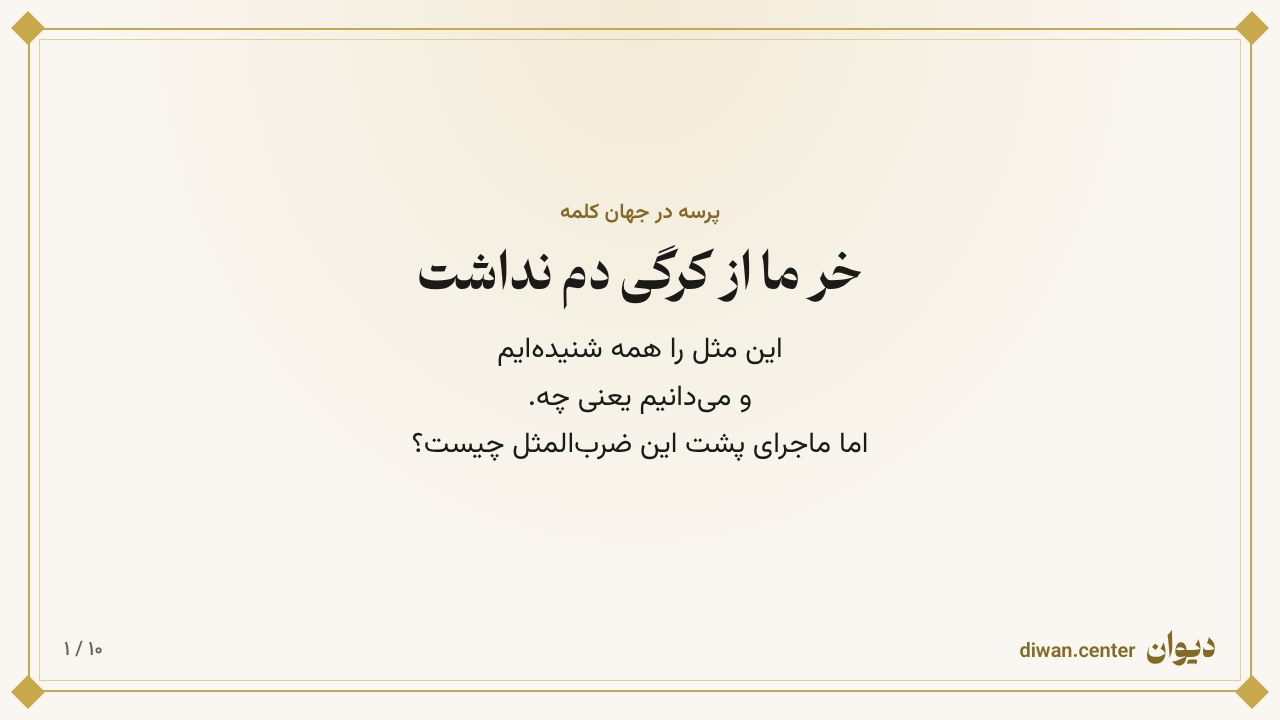
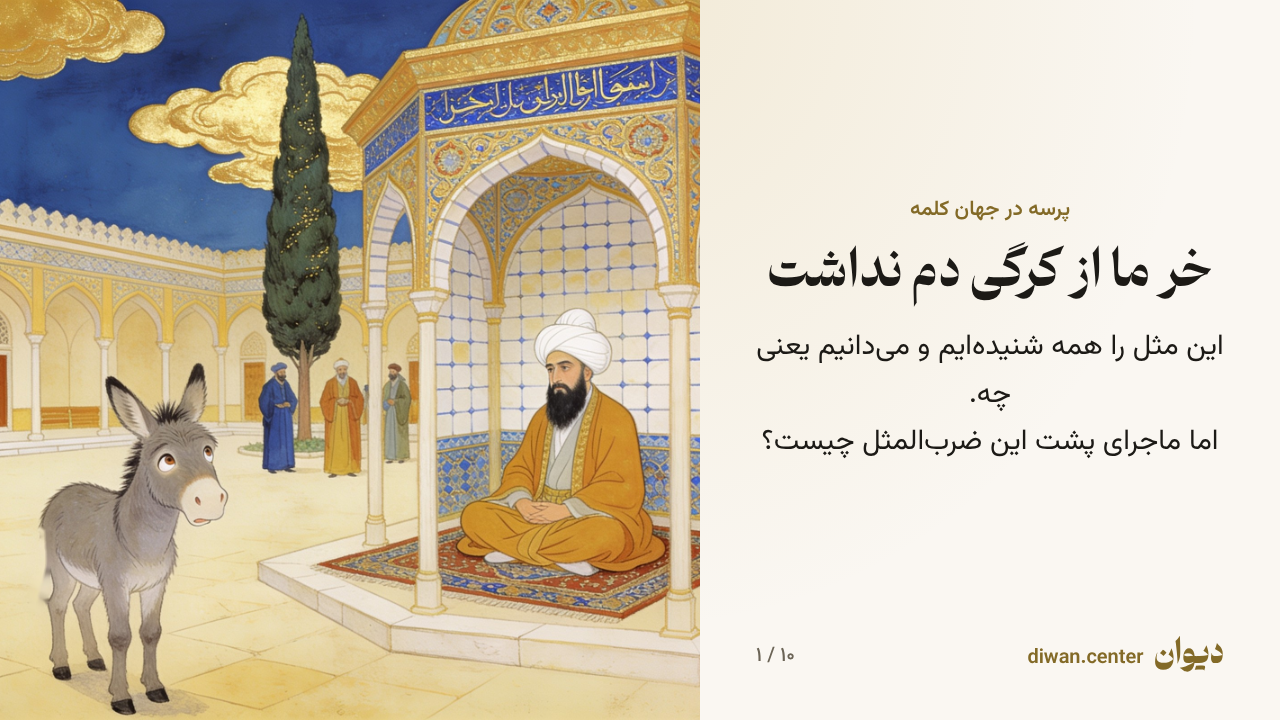
Proverb post14: AI miniature cover for slide 1
Claude-Session: https://claude.ai/code/session_01KbXFhZ5gVHvAJQxmARukFF

diff --git a/tools/proverb/build.py b/tools/proverb/build.py
@@ -8,7 +8,7 @@ N=5
 XS=[1,2,4,5]
 K='پرسه در جهان کلمه'
 S=[
- dict(k='text',kicker=K,title='خر ما از کرگی دم نداشت',body='این مثل را همه شنیدهایم\nو میدانیم یعنی چه.\nاما ماجرای پشت این ضربالمثل چیست؟'),
+ dict(k='imgtext',kicker=K,img='assets/cover_art.jpg',pos='96%',title='خر ما از کرگی دم نداشت',body='این مثل را همه شنیدهایم و میدانیم یعنی چه.\nاما ماجرای پشت این ضربالمثل چیست؟'),
  dict(k='text',kicker=K,title='دیوان بلخ',body='ریشهی مثل در حکایتهای «دیوان بلخ» است.\n«دیوان» اینجا یعنی دادگاه.\n\n«دیوان بلخ» را به دادگاهی میگویند\nکه حکمش با عدالت و منطق نمیخواند.'),
  dict(k='text',kicker=K,title='قصه چه بود؟',body='مردی میخواهد به صاحب خری کمک کند\nکه خرش در گل گیر کرده.\nخر آزاد میشود، ولی دمش کنده میشود.\n\nمرد فرار میکند\nو صاحب خر به دنبالش.'),
  dict(k='text',kicker=K,title='حوادث دیگر',body='مرد میگریزد و به خانهای میپرد:\nزنی باردار میترسد و بچهاش سقط میشود.\nاز بام میپرد و روی پیرمردِ بیماری میافتد\nو پیرمرد میمیرد.\nسر کوچه، چشم رهگذری یهودی کور میشود.\n\nهمه شاکی میشوند و دنبالش میافتند.'),
@@ -137,7 +137,7 @@ def html(i,s,plat):
     elif k=='close':
         inner=f'<h2>{s["title"]}</h2><div class="body">{s["body"]}</div><div class="final">{s["final"]}</div><div class="link">diwan.center</div>'+(f'<div class="note">{s["src"]}</div>' if s.get('src') else '')
     elif k in('imgtext','imgverse'):
-        t=f'<h2>{s["title"]}</h2>'
+        t=(f'<div class="kk2">{s["kicker"]}</div>' if s.get('kicker') else '')+f'<h2>{s["title"]}</h2>'
         if s.get('body'): t+=f'<div class="body">{s["body"]}</div>'
         if s.get('verse'): t+=f'<div class="verse sm">{"<br>".join(s["verse"])}</div><div class="src">{s["src"]}</div>'
         if wide:
